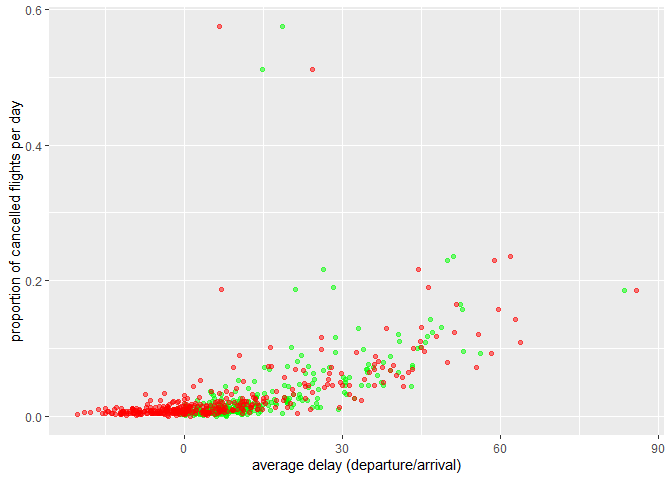
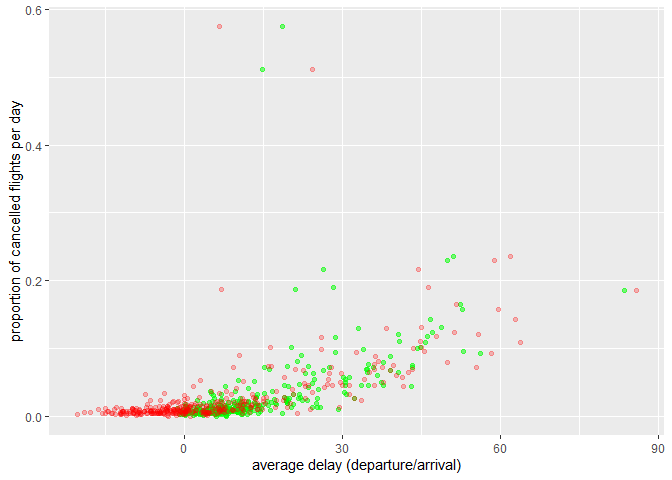
Commit in class

Changed region(s): [[0.125, 0.75, 0.625, 0.875], [0.625, 0.6875, 0.6562, 0.75], [0.375, 0.75, 0.4062, 0.7812]]

diff --git a/README.md b/README.md
@@ -2,6 +2,8 @@ Stat433_HW01
 ================
 2022-09-27
 
+[Stat433 HW01 on github](https://github.com/marissalong/Stat433_HW01)
+
 ## 1. How many flights have a missing dep_time? What other variables are missing? What might these rows represent?
 
 ``` r
@@ -102,14 +104,10 @@ flights %>%
   ggplot(aes(x=flight_num, y=canceled)) +
   geom_point() +
   labs(x = "number of flights per day",
-       y = "number of canceled flights per day")
+       y = "number of cancelled flights per day")
 ```
 
 ![](README_files/figure-gfm/unnamed-chunk-5-1.png)<!-- -->
-
-``` r
-#  geom_smooth(se=F)
-```
 
     According to the plot, it appears that the number of canceled flights per day increases when there is an increase of the number of all flights per day with a few outliers.
 
@@ -124,7 +122,7 @@ flights %>%
             avg_arr_delay = mean(arr_delay, na.rm=TRUE)) %>%
   ggplot() +
   geom_point(aes(x=avg_dep_delay,y=prop_canceled), color="green", alpha=0.5) +
-  geom_point(aes(x=avg_arr_delay,y=prop_canceled), color="red", alpha=0.5) +
+  geom_point(aes(x=avg_arr_delay,y=prop_canceled), color="red", alpha=0.25) +
   labs(x = "average delay (departure/arrival)",
        y = "proportion of cancelled flights per day")
 ```
